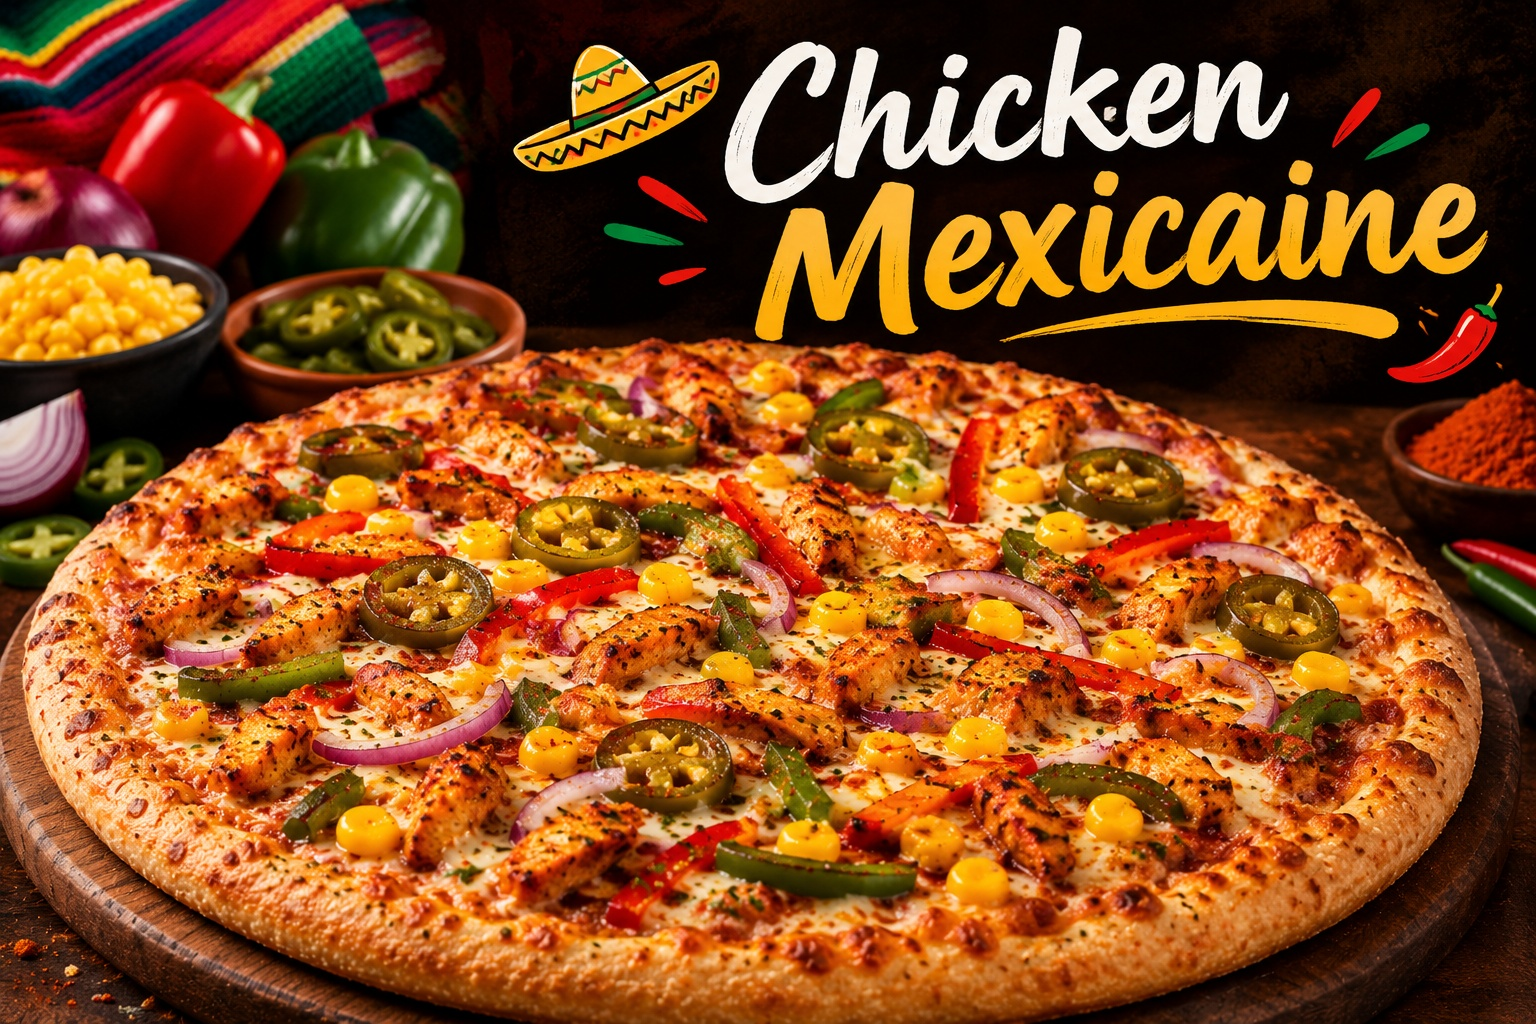
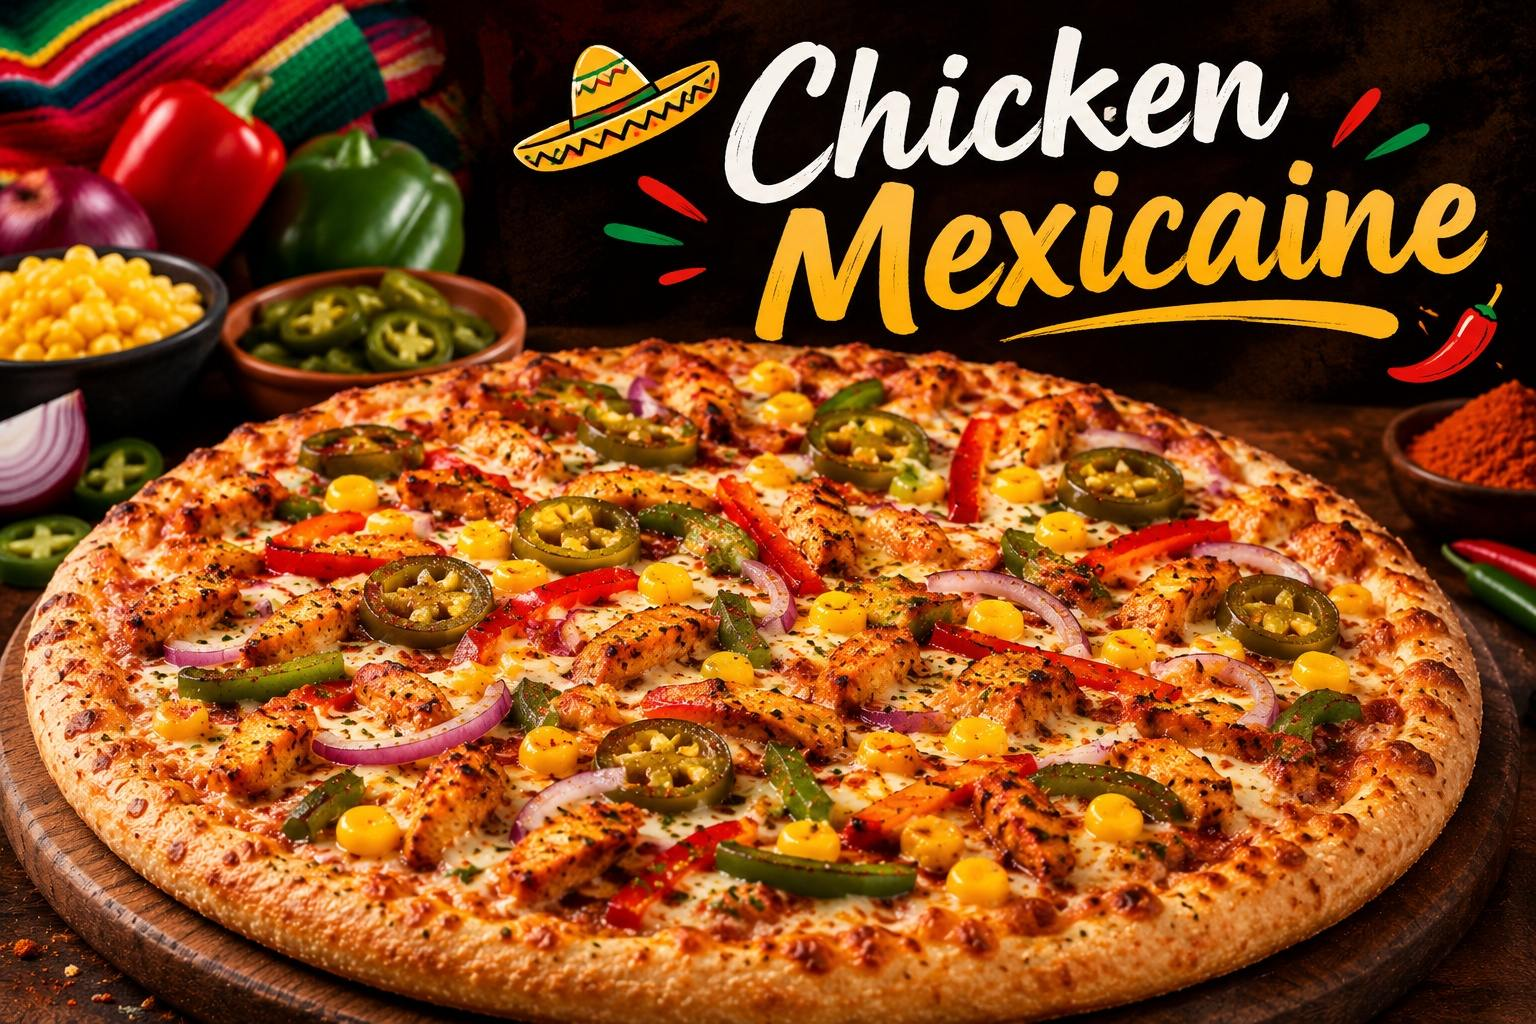
Recompresser les images

diff --git a/galerie.html b/galerie.html
@@ -48,7 +48,7 @@
             </div>
         </div>
             <div class="interieur">
-                <img src="Photos/Interieur.png" alt="Intérieur">
+                <img src="Photos/Interieur.jpg" alt="Intérieur">
                 <div class="texte1_interieur">
                     <p>Notre intérieur</p>
                 </div>
@@ -59,7 +59,7 @@
         </div>
         <div class="galerie2">
             <div class="equipe">
-                <img src="Photos/Equipe.png" alt="équipe">
+                <img src="Photos/Equipe.jpg" alt="équipe">
                 <div class="texte1_équipe">
                     <p>Notre équipe</p>
                 </div>
@@ -68,7 +68,7 @@
                 </div>
             </div>
             <div class="Cuisine">
-                <img src="Photos/Kitchen.png" alt="Cuisine">
+                <img src="Photos/Kitchen.jpg" alt="Cuisine">
                 <div class="texte1_Cuisine">
                     <p>Notre Cuisine</p>
                 </div>
@@ -87,7 +87,7 @@
             ⭐⭐⭐⭐⭐-Vos avis comptent!
         </h2>
         <div class="avis_client">
-            <img src="Photos/Feedback.png" alt="avis">
+            <img src="Photos/Feedback.jpg" alt="avis">
         </div>
     </article>
 

diff --git a/menu.html b/menu.html
@@ -102,7 +102,7 @@
         </div>
         <div class="ligne2.1">
             <article class="Injected-Broast">
-                <img src="Photos/injected broast.jpg" alt="Injected Broast">
+                <img src="Photos/injected_broast.jpg" alt="Injected Broast">
                 <div class="prix">CHF&nbsp8,90</div>
                 <div class="texte3.1">
                     <strong>Spicy Injected Broast &nbsp :&nbsp</strong>Broast spicy (6 pièces) : poulet frit croustillant, mariné aux piments.

diff --git a/broast.html b/broast.html
@@ -54,7 +54,7 @@
     </div>
     <div class="ligne2.1">
         <article class="Injected-Broast">
-            <img src="Photos/injected broast.jpg" alt="Injected Broast">
+            <img src="Photos/injected_broast.jpg" alt="Injected Broast">
             <div class="prix">CHF&nbsp8,90</div>
             <div class="texte3.1">
                 <strong>Spicy Injected Broast &nbsp :&nbsp</strong>Broast spicy (6 pièces) : poulet frit croustillant, mariné aux piments.
